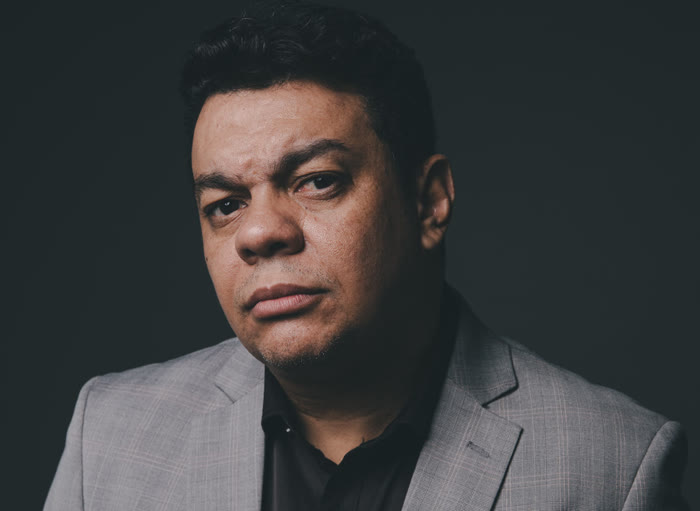
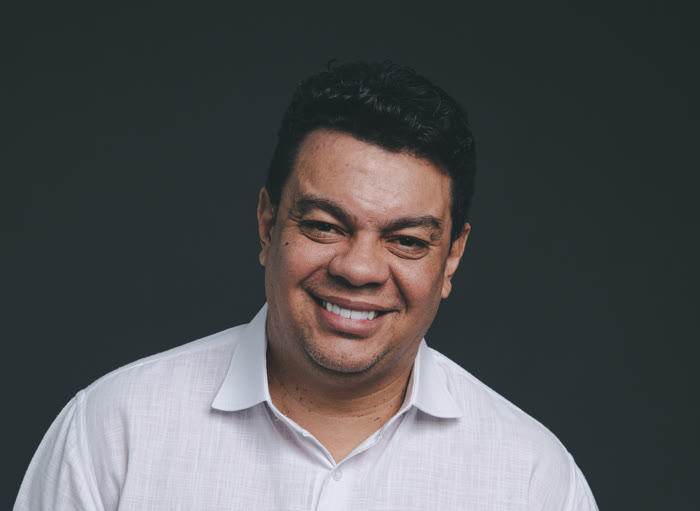
Foto do Gilberto na tela dos diretores trocada por uma sorrindo

diff --git a/saidas/NEGOCIOS-E-MARCA/projeto-reestruturando-com-exito-2026-10-16/LEIA.md b/saidas/NEGOCIOS-E-MARCA/projeto-reestruturando-com-exito-2026-10-16/LEIA.md
@@ -100,7 +100,7 @@ Pasta `fotos/`. Os três recortes têm a mesma proporção (700x511) e rosto int
 
 | Quem | De onde veio |
 |---|---|
-| **Gilberto** | `retrato-firme.jpg` do media kit (1200x1800), recorte de cabeça e ombros |
+| **Gilberto** | foto sorrindo do ensaio com Bernardo Coelho, camisa branca (`...-Gilberto-Sena-43.jpg`, 4480x6720), recorte de cabeça e peito |
 | **Alisson** | foto de estúdio da página dele no site do Instituto Êxito (852x1280) |
 | **Dr. Luciano** | foto da página dele no site do Instituto Êxito (670x652) |
 
@@ -119,3 +119,12 @@ cabeçalhos de navegador normais.** Sem eles o servidor devolve 406
 O slide da diretoria perdeu o parágrafo de fechamento pra caber as fotos. A
 frase ("nome e responsabilidade na frente") virou o título e as notas do
 orador.
+
+⚠ **A primeira foto dele era o retrato de olhar firme, e ele achou séria
+demais** (16/out): *"a minha foto está muito séria, procure outra com
+sorriso"*. O retrato sorrindo do media kit (`retrato-sorriso.jpg`) ficou
+**perto demais** do lado do Alisson e do Dr. Luciano: a cabeça enchia o
+quadro. Procurei as 116 fotos do ensaio e a escolhida foi a **nº 43** do
+Bernardo, camisa branca e fundo escuro, que dá o mesmo tamanho de cabeça
+dos outros dois. Fica de reserva a nº 115, de blazer cinza sorrindo para o
+lado.
